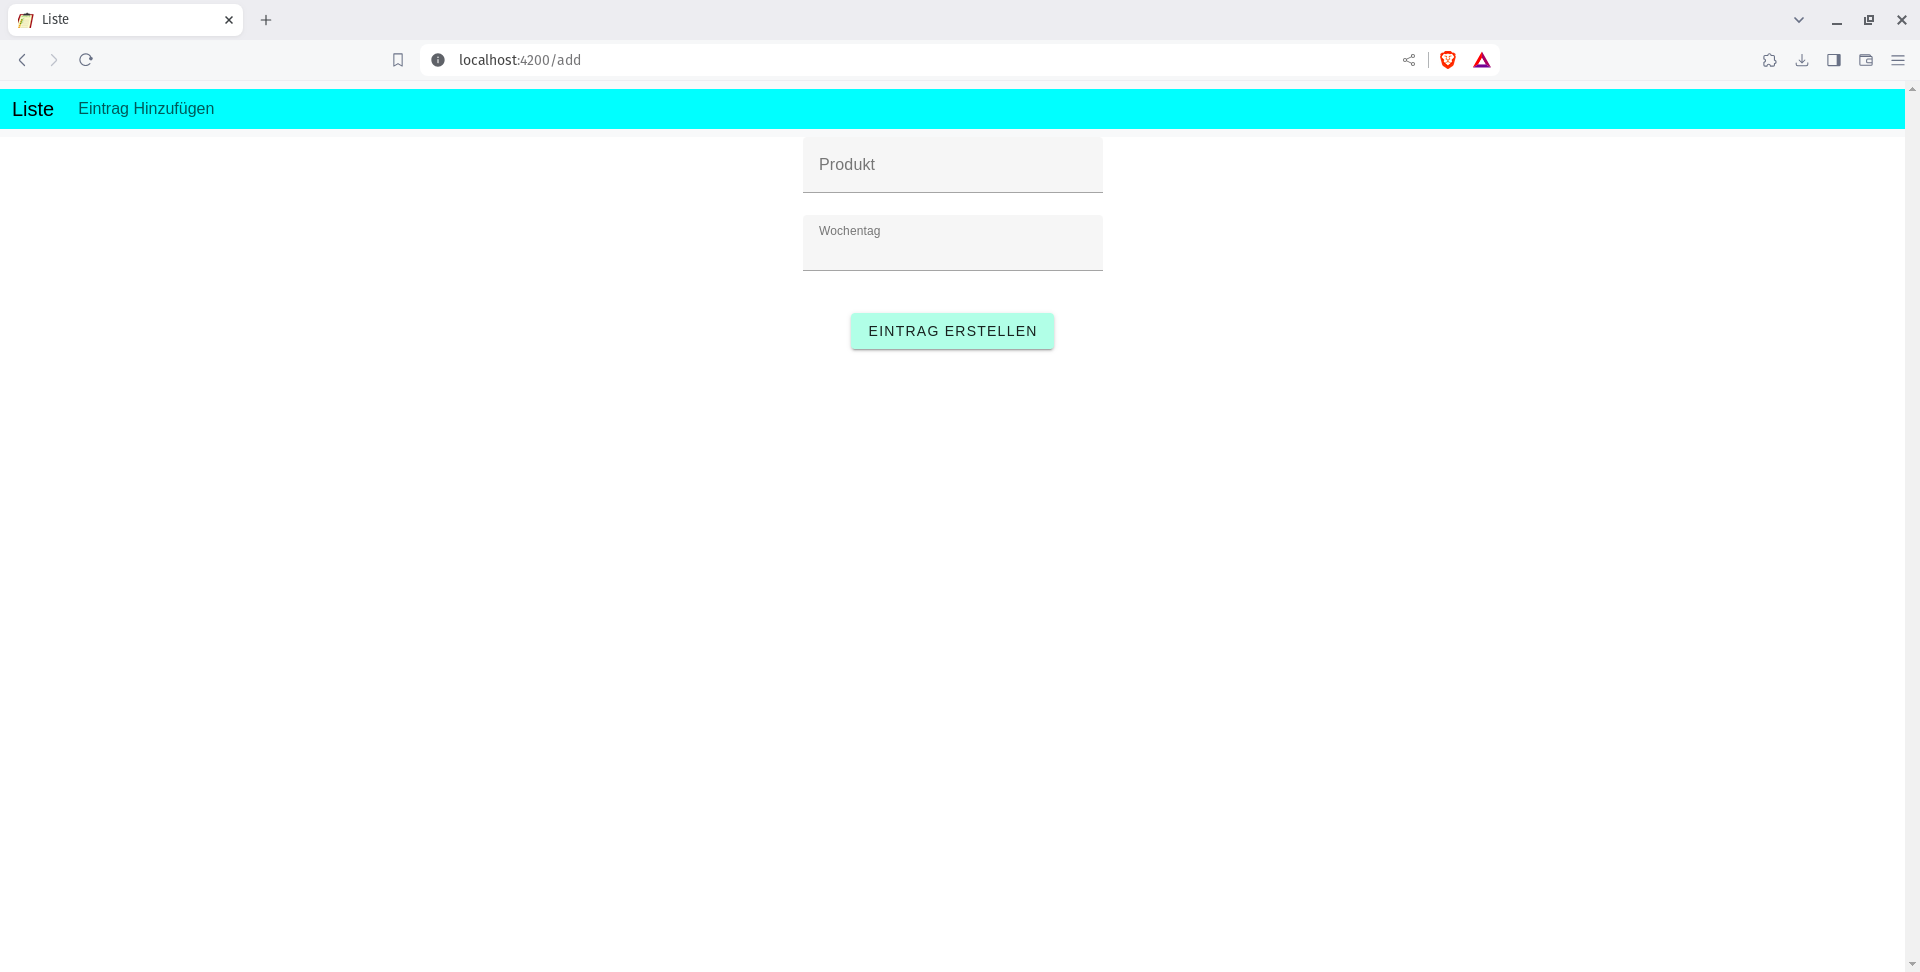
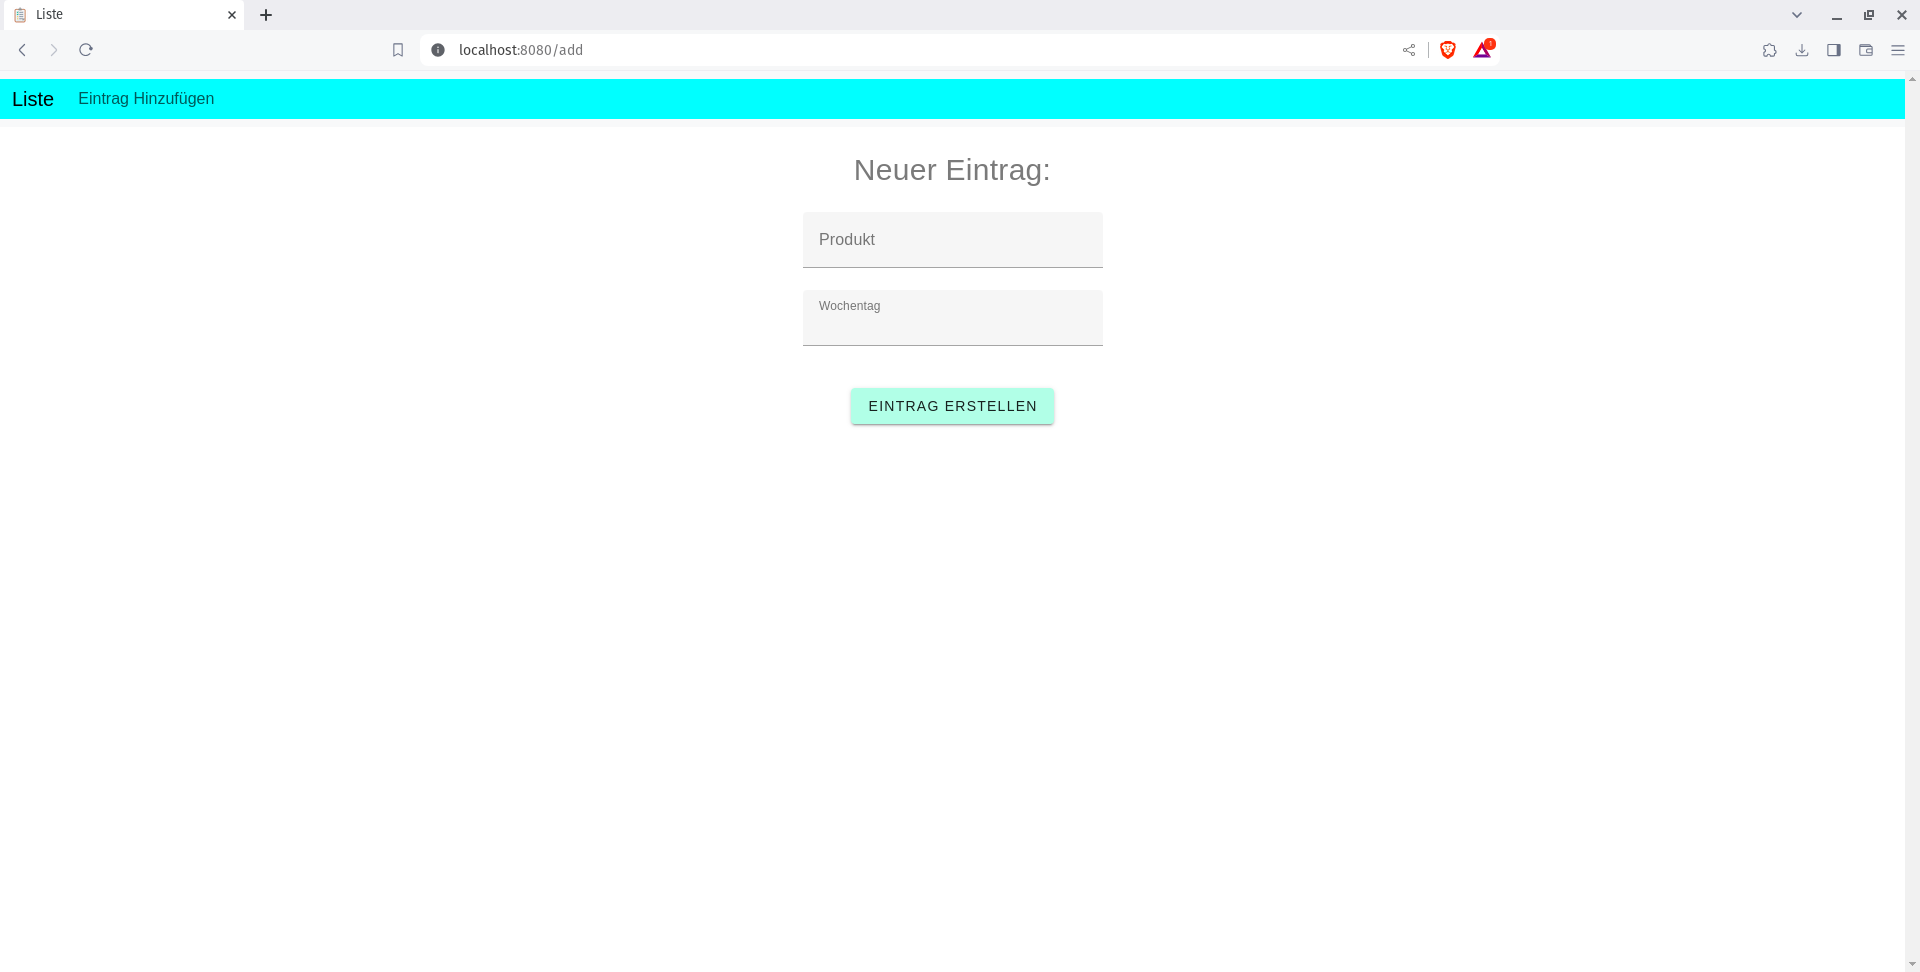
update

diff --git a/src/components/addEntry.vue b/src/components/addEntry.vue
@@ -2,6 +2,8 @@
   <v-sheet width="300" class="mx-auto">
 
     <v-form ref="form">
+    
+<v-label>Neuer Eintrag:</v-label>
       <v-text-field v-model="list.product" label="Produkt" required></v-text-field>
 
       <v-select v-model="list.weekday" :items="weekdays" label="Wochentag" required></v-select>
@@ -11,26 +13,16 @@
   </v-sheet>
 </template>
 <style  scoped>
-.addentryform {
-  display: flexbox;
-}
-
-input,
-select {
-  width: 170px;
-  height: 25px;
-}
-
-label {
-  font-size: 26px;
-  margin-top: 10px;
+.v-form {
+  margin-top: 20px;
 
 }
-
-select {
-  width: 140px;
-  height: 20px;
+.v-label{
+  margin-bottom: 20px;
+  font-size: 30px;
 }
+
+
 
 button {
   margin-top: 20px;
